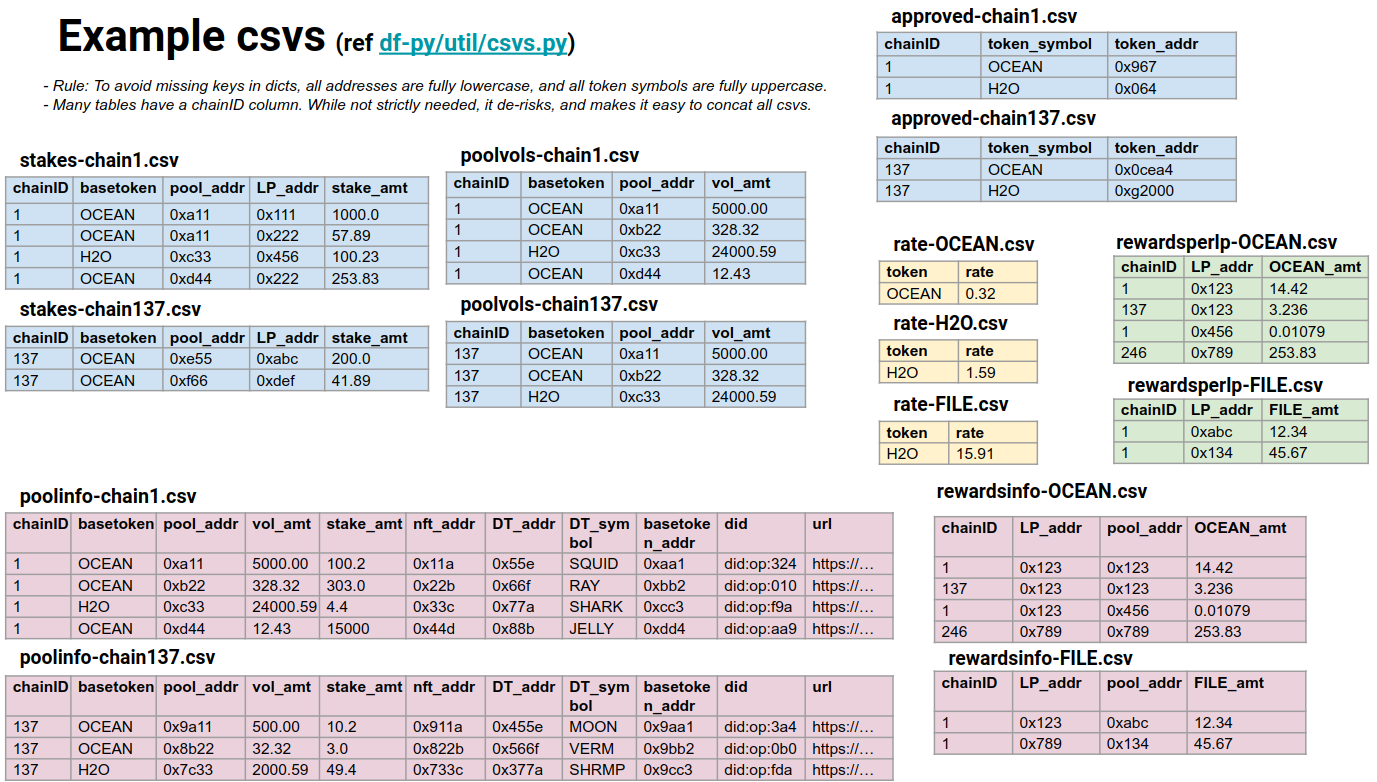
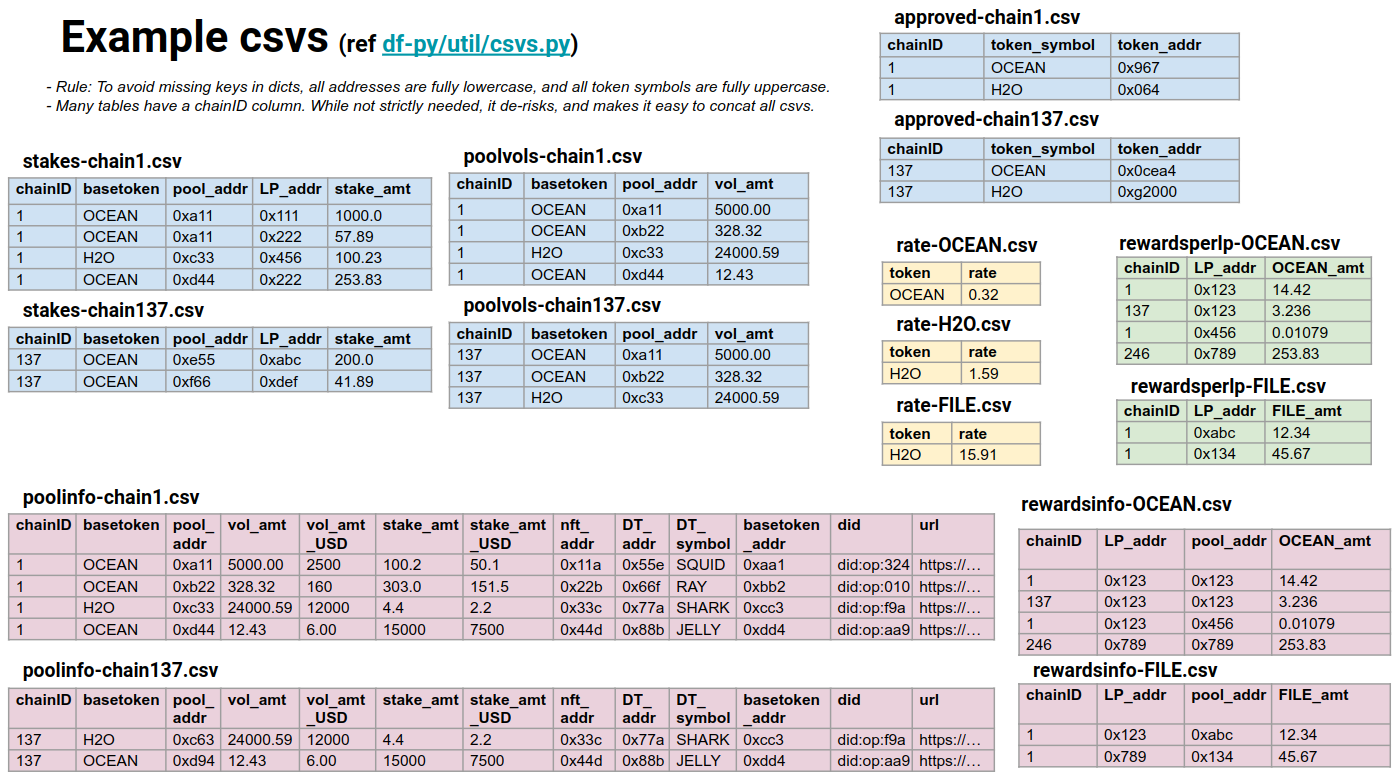
Fix #210 - Add vol_amt_USD & stake_amt_USD columns to poolinfo-chainx.csv

diff --git a/util/csvs.py b/util/csvs.py
@@ -325,8 +325,15 @@ def savePoolinfoCsv(
       poolvols_at_chain -- dict of [basetoken_address][pool_addr] : vol_amt
       csv_dir -- directory that holds csv files
       chainID -- which network
+
+    @notes
+      This method also inputs rate*.csv files.
     """
     assert os.path.exists(csv_dir), f"{csv_dir} should exist"
+
+    assert rateCsvFilenames(csv_dir), "Should have rate csv files"
+    rates = loadRateCsvs(csv_dir)
+    
     csv_file = poolinfoCsvFilename(csv_dir, chainID)
     assert not os.path.exists(csv_file), f"{csv_file} shouldn't exist"
 
@@ -340,7 +347,9 @@ def savePoolinfoCsv(
                 "basetoken",
                 "pool_addr",
                 "vol_amt",
+                "vol_amt_USD",
                 "stake_amt",
+                "stake_amt_USD",
                 "nft_addr",
                 "DT_addr",
                 "DT_symbol",
@@ -359,19 +368,23 @@ def savePoolinfoCsv(
                 did = oceanutil.calcDID(p.nft_addr, chainID)
                 url = constants.MARKET_ASSET_BASE_URL + did
 
-                stake_amt = sum(stakes_at_chain[basetoken][pool_addr].values())
+                stake_amt_BASE = sum(stakes_at_chain[basetoken][pool_addr].values())
+                stake_amt_USD = stake_amt_BASE * rates[basetoken]
 
-                vol = 0
-                if basetoken in poolvols_at_chain:
-                    if pool_addr in poolvols_at_chain[basetoken]:
-                        vol = poolvols_at_chain[basetoken][pool_addr]
+                vol_amt_BASE = 0.0
+                if (basetoken in poolvols_at_chain) and \
+                   (pool_addr in poolvols_at_chain[basetoken]):
+                    vol_amt_BASE = poolvols_at_chain[basetoken][pool_addr]
+                vol_amt_USD = vol_amt_BASE * rates[basetoken]
 
                 row = [
                     chainID,
                     basetoken,
                     pool_addr,
-                    vol,
-                    stake_amt,
+                    vol_amt_BASE,
+                    vol_amt_USD,
+                    stake_amt_BASE,
+                    stake_amt_USD,
                     p.nft_addr,
                     p.DT_addr,
                     p.DT_symbol,

diff --git a/util/test/test_csvs.py b/util/test/test_csvs.py
@@ -174,6 +174,11 @@ def test_poolinfo(tmp_path):
         H2O: {PC: {LP1: 3.1, LP4: 3.4}},
     }
     V1 = {OCN: {PA: 0.11, PB: 0.12}, H2O: {PC: 3.1}}
+
+    rates = {OCN: 0.66, H2O: 1.618}
+    for symbol, rate in rates.items():
+        csvs.saveRateCsv(symbol, rate, csv_dir)
+    
     csvs.savePoolinfoCsv(P1, S1, V1, csv_dir, C1)
 
     csv_file = csvs.poolinfoCsvFilename(csv_dir, C1)
@@ -183,7 +188,9 @@ def test_poolinfo(tmp_path):
         "basetoken",
         "pool_addr",
         "vol_amt",
+        "vol_amt_USD",
         "stake_amt",
+        "stake_amt_USD",
         "nft_addr",
         "DT_addr",
         "DT_symbol",

diff --git a/README-dist-ops.md b/README-dist-ops.md
@@ -2,7 +2,7 @@
 
 Outline:
 - Step 0: Set envvars
-- Step 1, 2, 3: Run query, getrate, calc
+- Step 1, 2, 3: Run getrate, query, calc
 - Step 4: Run dispense
 - Step 5, 6: Publish csvs, blog post, tweet
 
@@ -31,21 +31,21 @@ export OCEAN_56_addr=0xdce07662ca8ebc241316a15b611c89711414dd1a   #bsc
 export OCEAN_1285_addr=0x99C409E5f62E4bd2AC142f17caFb6810B8F0BAAE #moonriver
 ```
 
-### Step 1, 2, 3: Run query, getrate, calc
+### Step 1, 2, 3: Run getrate, query, calc
 
 In console, run the following: (can copy & paste):
 ```console
 export date=`date -d "last Thursday" '+%Y-%m-%d'`
 export now=`date '+%Y-%m-%d'`
 
+dftool getrate OCEAN $date $now mydata #output rate-OCEAN.csv
+dftool getrate H2O $date $now mydata
+
 dftool query $date $now 50 mydata 137 #output approved-137.csv, poolvols-137.csv, stakes-chain137.csv
 dftool query $date $now 50 mydata 246
 dftool query $date $now 50 mydata 1
 dftool query $date $now 50 mydata 56
 dftool query $date $now 50 mydata 1285
-
-dftool getrate OCEAN $date $now mydata #output rate-OCEAN.csv
-dftool getrate H2O $date $now mydata
 ```
 
 Then, open file `approved-137.csv`, and change `OCEAN` -> `MOCEAN` (Polygon workaround)

diff --git a/README.md b/README.md
@@ -12,8 +12,9 @@
 CLI-based tool to administer Data Farming.
 
 ```text
-Usage: dftool query|calc|dispense|..
+Usage: dftool getrate|query|calc|dispense|..
 
+  dftool getrate - get exchange rate
   dftool query - query chain for stakes & volumes
   dftool calc - calculate rewards
   dftool dispense - dispense funds
@@ -214,13 +215,12 @@ cd /app/df-py/
 date=`date -dlast-wednesday '+%Y-%m-%d'`
 now=`date '+%Y-%m-%d'`
 
-
+/app/df-py/dfpy_docker getrate OCEAN $date $now /app/data && 
 /app/df-py/dfpy_docker query $date latest 1 /app/data 1 && 
 /app/df-py/dfpy_docker query $date latest 1 /app/data 56 && 
 /app/df-py/dfpy_docker query $date latest 1 /app/data 137 && 
 /app/df-py/dfpy_docker query $date latest 1 /app/data 246 && 
 /app/df-py/dfpy_docker query $date latest 1 /app/data 1285 && 
-/app/df-py/dfpy_docker getrate OCEAN $date $now /app/data && 
 /app/df-py/dfpy_docker calc /app/data 10000 OCEAN && 
 mv /tmp/dfpy/* ~/.dfcsv/
 ```
